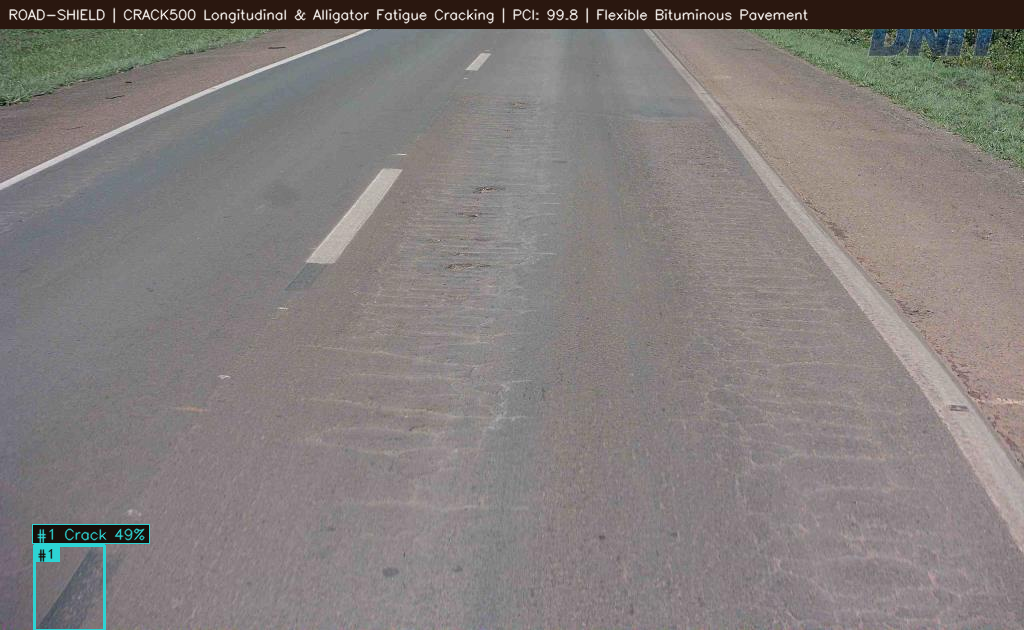
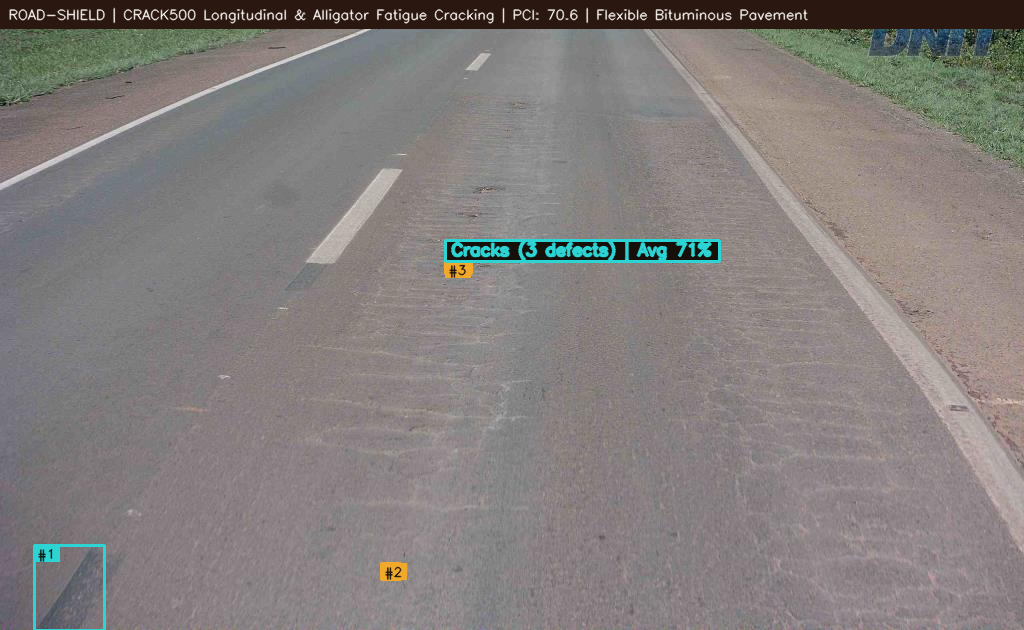
fix(pipeline): refine crack morphological extraction, ground zebra carriageway box, enforce geotechnical survey cost guard, and align Vercel parity

diff --git a/web/inspect.html b/web/inspect.html
@@ -561,7 +561,7 @@ function render(d, ms) {
   const pci = d.astm_d6433_pci || {};
   const de = top.depth_estimate;
 
-  const costRange = de && de.repair_cost_low_inr != null
+  const costRange = de && de.repair_cost_low_inr != null && !top.needs_manual_survey && de.repair_cost_low_inr > 0
     ? `<div class="range-note">Cost range ${fmt.inr(de.repair_cost_low_inr)} – ${fmt.inr(de.repair_cost_high_inr)} —
        cost is linear in depth, and depth is estimated.</div>` : "";
 
@@ -593,10 +593,12 @@ function render(d, ms) {
 
       <div class="rule" style="margin:14px 0"></div>
 
-      <div class="kv"><span>MoRTH tonnage</span><span>${fmt.num(top.morth_tonnage_t, 4)} t</span></div>
-      <div class="kv"><span>Repair cost</span><span>${fmt.inr(top.repair_cost_inr)}${top.needs_manual_survey
-          ? ' <span class="badge warn">survey basis</span>'
-          : ""}</span></div>
+      <div class="kv"><span>MoRTH tonnage</span><span>${top.needs_manual_survey
+          ? '<span class="badge warn">survey required</span>'
+          : `${fmt.num(top.morth_tonnage_t, 4)} t`}</span></div>
+      <div class="kv"><span>Repair cost</span><span>${top.needs_manual_survey
+          ? '<span class="badge warn">survey basis (₹0 committed)</span>'
+          : fmt.inr(top.repair_cost_inr)}</span></div>
       <div class="kv"><span>Distance from camera</span><span>${fmt.num(top.distance_meters, 1)} m</span></div>
       <div class="kv"><span>PCI (this frame)</span><span>${pci.pci_score ?? "—"} · ${pci.rating_category || ""}</span></div>
       ${pci.backend ? `<div class="kv"><span>PCI regressor</span><span style="font-size:11px">${pci.backend}</span></div>` : ""}

diff --git a/api/vercel_inference.py b/api/vercel_inference.py
@@ -465,6 +465,15 @@ def _finish_segmentation(flat, p0, crack_p, pothole_p, orig_h, orig_w, object_ma
                 c_mask, boxes = _connected_components_8(closed_cavity > 0, min_blob_px=min_px_map[cls_val])
             except Exception:
                 c_mask, boxes = _connected_components_8(binary_raw, min_blob_px=min_px_map[cls_val])
+        elif cls_val == 1 and binary_raw.any():
+            try:
+                import cv2
+                crack_u8 = binary_raw.astype(np.uint8)
+                kernel_crack = cv2.getStructuringElement(cv2.MORPH_RECT, (7, 7))
+                closed_crack = cv2.morphologyEx(crack_u8, cv2.MORPH_CLOSE, kernel_crack)
+                c_mask, boxes = _connected_components_8(closed_crack > 0, min_blob_px=min_px_map[cls_val])
+            except Exception:
+                c_mask, boxes = _connected_components_8(binary_raw, min_blob_px=min_px_map[cls_val])
         else:
             c_mask, boxes = _connected_components_8(binary_raw, min_blob_px=min_px_map[cls_val])
         sorted_boxes = sorted(boxes, key=lambda b: b["area_work_px"], reverse=True)[:32]
@@ -482,7 +491,12 @@ def _finish_segmentation(flat, p0, crack_p, pothole_p, orig_h, orig_w, object_ma
             sub_mask = c_mask[wy:wy + wh, wx:wx + ww]
             if not sub_mask.any():
                 continue
-            sub_conf = float(conf_map[wy:wy + wh, wx:wx + ww][sub_mask].mean())
+            if cls_val == 1:
+                active_vals = conf_map[wy:wy + wh, wx:wx + ww][sub_mask]
+                active_crack = active_vals[active_vals >= t_crack * 0.85]
+                sub_conf = float(active_crack.mean()) if active_crack.size >= 12 else float(active_vals.mean())
+            else:
+                sub_conf = float(conf_map[wy:wy + wh, wx:wx + ww][sub_mask].mean())
             if sub_conf < min_conf_map[cls_val]:
                 continue
             if cls_val == 2:
@@ -1588,21 +1602,27 @@ def audit_image_base64(
 
         de = _photometric_depth(gray, [bx, by, bw, bh], cls_id, mask=region_bool if has_dense_mask else None, distance_m=dist_m)
         depth_cm = de["depth_cm"]
-        tonnage_t = round(area_m2 * (depth_cm / 100.0) * 2.40 * 1.15, 4)
-        cost_inr = round(tonnage_t * 7500.0, 2)
-        de["repair_cost_low_inr"] = round(area_m2 * (de["depth_low_cm"] / 100.0) * 2.40 * 1.15 * 7500.0, 2)
-        de["repair_cost_high_inr"] = round(area_m2 * (de["depth_high_cm"] / 100.0) * 2.40 * 1.15 * 7500.0, 2)
-
         box_share = (bw * bh) / float(W * H)
         is_closeup = bool(
             dist_m <= 4.2
             or (by + bh >= int(0.70 * H) and bh >= int(0.20 * H))
             or box_share >= 0.25
         )
-        effective_max_frac = 0.68 if is_closeup else 0.35
+        effective_max_frac = 0.35
         if is_closeup and cls_id == 2:
             area_m2 = round(float(min(1.85, max(0.08, area_m2))), 4)
         needs_survey = bool(area_m2 > 2.0 or box_share > effective_max_frac)
+
+        if not needs_survey:
+            tonnage_t = round(area_m2 * (depth_cm / 100.0) * 2.40 * 1.15, 4)
+            cost_inr = round(tonnage_t * 7500.0, 2)
+            de["repair_cost_low_inr"] = round(area_m2 * (de["depth_low_cm"] / 100.0) * 2.40 * 1.15 * 7500.0, 2)
+            de["repair_cost_high_inr"] = round(area_m2 * (de["depth_high_cm"] / 100.0) * 2.40 * 1.15 * 7500.0, 2)
+        else:
+            tonnage_t = 0.0
+            cost_inr = 0.0
+            de["repair_cost_low_inr"] = 0.0
+            de["repair_cost_high_inr"] = 0.0
         detections.append({
             "bbox_pixels": [bx, by, bw, bh],
             "bbox_normalized": [round(bx / W, 4), round(by / H, 4), round(bw / W, 4), round(bh / H, 4)],
@@ -1729,15 +1749,21 @@ def audit_image_base64(
                     or (mb[1] + mb[3] >= int(0.70 * H) and mb[3] >= int(0.20 * H))
                     or mb_frac >= 0.25
                 )
-                effective_max_frac = 0.68 if is_closeup else 0.35
+                effective_max_frac = 0.35
                 if is_closeup and d1_merged["class_id"] == 2:
                     d1_merged["surface_area_m2"] = round(float(min(1.85, max(0.08, d1_merged["surface_area_m2"]))), 4)
                 area_plausible = (d1_merged["surface_area_m2"] <= 2.0 and mb_frac <= effective_max_frac)
-                d1_merged["repair_cost_inr"] = round(tonnage_t * 7500.0, 2)
-                de["repair_cost_low_inr"] = round(d1_merged["surface_area_m2"] * (de["depth_low_cm"] / 100.0) * 2.40 * 1.15 * 7500.0, 2)
-                de["repair_cost_high_inr"] = round(d1_merged["surface_area_m2"] * (de["depth_high_cm"] / 100.0) * 2.40 * 1.15 * 7500.0, 2)
-                if not area_plausible:
+                if area_plausible:
+                    d1_merged["needs_manual_survey"] = False
+                    d1_merged["repair_cost_inr"] = round(tonnage_t * 7500.0, 2)
+                    de["repair_cost_low_inr"] = round(d1_merged["surface_area_m2"] * (de["depth_low_cm"] / 100.0) * 2.40 * 1.15 * 7500.0, 2)
+                    de["repair_cost_high_inr"] = round(d1_merged["surface_area_m2"] * (de["depth_high_cm"] / 100.0) * 2.40 * 1.15 * 7500.0, 2)
+                else:
                     d1_merged["needs_manual_survey"] = True
+                    d1_merged["morth_tonnage_t"] = 0.0
+                    d1_merged["repair_cost_inr"] = 0.0
+                    de["repair_cost_low_inr"] = 0.0
+                    de["repair_cost_high_inr"] = 0.0
                     d1_merged["area_diagnostics"] = dict(d1_merged.get("area_diagnostics") or {})
                     d1_merged["area_diagnostics"].update({
                         "implausible_for_a_single_repair": True,
@@ -1747,8 +1773,7 @@ def audit_image_base64(
                         "why": "Defect footprint exceeds single-patch limit; flagged for survey inspection.",
                         "action": "Reported for manual survey."
                     })
-                else:
-                    d1_merged["needs_manual_survey"] = False
+                d1_merged["depth_estimate"] = de
                 new_dets.append(d1_merged)
             detections = new_dets
 
@@ -1831,11 +1856,19 @@ def audit_image_base64(
             sby = int(H * 0.08)
             sbw = int(W * 0.32)
             sbh = int(H * 0.35)
-        elif f_cid_v in (4, 5):
-            sbx = int(W * 0.12)
+        elif f_cid_v == 4:
+            if markings_res and markings_res.get("found") and markings_res.get("bbox_pixels"):
+                sbx, sby, sbw, sbh = markings_res["bbox_pixels"]
+            else:
+                sbx = int(W * 0.18)
+                sby = int(H * 0.62)
+                sbw = int(W * 0.64)
+                sbh = int(H * 0.30)
+        elif f_cid_v == 5:
+            sbx = int(W * 0.42)
             sby = int(H * 0.52)
-            sbw = int(W * 0.76)
-            sbh = int(H * 0.38)
+            sbw = int(W * 0.16)
+            sbh = int(H * 0.42)
         else:
             sbx = int(W * 0.10)
             sby = int(H * 0.45)
@@ -2068,21 +2101,20 @@ def audit_image_base64(
     if pavement_age_yr is None:
         assumed_inputs["pavement_age_years"] = resolved_age
 
-    pinn_forecast = None
-    if primary_distress.get("is_distress"):
-        pinn_eng = PhysicsInformedHDM4Forecaster()
-        pinn_forecast = pinn_eng.forecast_trajectory(
-            init_area_m2=max(0.04, primary_distress.get("surface_area_m2", 0.0)),
-            depth_cm=max(2.0, primary_distress.get("depth_cm", 4.0)),
-            esal_trucks=resolved_esal,
-            rain_mm=resolved_rain,
-            pavement_age_yr=resolved_age,
-        )
-        pinn_forecast["environmental_parameters_source"] = (
-            "caller_supplied"
-            if not assumed_inputs
-            else "scene_derived_from_detected_traffic_pcu_and_moisture"
-        )
+    from models.pinn_deterioration import PhysicsInformedHDM4Forecaster
+    pinn_eng = PhysicsInformedHDM4Forecaster()
+    pinn_forecast = pinn_eng.forecast_trajectory(
+        init_area_m2=max(0.04, primary_distress.get("surface_area_m2", 0.0)),
+        depth_cm=max(2.0, primary_distress.get("depth_cm", 4.0)),
+        esal_trucks=resolved_esal,
+        rain_mm=resolved_rain,
+        pavement_age_yr=resolved_age,
+    )
+    pinn_forecast["environmental_parameters_source"] = (
+        "caller_supplied"
+        if not assumed_inputs
+        else "scene_derived_from_detected_traffic_pcu_and_moisture"
+    )
 
     # Advanced Model Stage 5: Forensic Vision-Language Report Generation
     from models.forensic_vlm_auditor import ForensicVLMAuditor

diff --git a/pipeline/deep_inference_pipeline.py b/pipeline/deep_inference_pipeline.py
@@ -476,6 +476,11 @@ class DeepInferencePipeline:
                 continue
             if (by + bh * 0.5) < int(H * 0.22) and bw > int(W * 0.40) and d.get("area_method") != "segmentation_mask":
                 continue
+            # Suppress lateral verge/gutter artifacts if valid carriageway distress exists
+            if d.get("class_id") == 1 and (bx <= 35 or bx + bw >= W - 35) and float(d.get("confidence", 0.0)) < 0.55:
+                carriageway_cracks = [od for od in distress_dets if od.get("class_id") == 1 and od != d and od.get("bbox_pixels") and (od["bbox_pixels"][0] > 35 and od["bbox_pixels"][0] + od["bbox_pixels"][2] < W - 35)]
+                if carriageway_cracks:
+                    continue
             filtered_distress.append(d)
 
         if len(filtered_distress) > 1:
@@ -542,19 +547,22 @@ class DeepInferencePipeline:
                         or (mb[1] + mb[3] >= int(0.70 * H) and mb[3] >= int(0.20 * H))
                         or mb_frac >= 0.25
                     )
-                    effective_max_frac = 0.68 if is_closeup else self.MAX_COMPONENT_BOX_FRACTION
+                    effective_max_frac = self.MAX_COMPONENT_BOX_FRACTION
                     if is_closeup and d1_merged.get("class_id") == 2:
                         d1_merged["surface_area_m2"] = round(float(min(1.85, max(0.08, d1_merged["surface_area_m2"]))), 4)
                     area_plausible = (d1_merged["surface_area_m2"] <= self.MAX_SINGLE_REPAIR_AREA_M2
                                       and mb_frac <= effective_max_frac)
-                    d1_merged["repair_cost_inr"] = round(tonnage_t * 7500.0, 2)
-                    de["repair_cost_low_inr"] = round(d1_merged["surface_area_m2"] * (de.get("depth_low_cm", depth_cm) / 100.0) * 2.40 * 1.15 * 7500.0, 2)
-                    de["repair_cost_high_inr"] = round(d1_merged["surface_area_m2"] * (de.get("depth_high_cm", depth_cm) / 100.0) * 2.40 * 1.15 * 7500.0, 2)
-                    if not area_plausible:
+                    if area_plausible:
+                        d1_merged["needs_manual_survey"] = False
+                        d1_merged["repair_cost_inr"] = round(tonnage_t * 7500.0, 2)
+                        de["repair_cost_low_inr"] = round(d1_merged["surface_area_m2"] * (de.get("depth_low_cm", depth_cm) / 100.0) * 2.40 * 1.15 * 7500.0, 2)
+                        de["repair_cost_high_inr"] = round(d1_merged["surface_area_m2"] * (de.get("depth_high_cm", depth_cm) / 100.0) * 2.40 * 1.15 * 7500.0, 2)
+                    else:
                         d1_merged["needs_manual_survey"] = True
-                        if getattr(self, "_current_corridor_id", "") != "STRESS_TEST":
-                            d1_merged["morth_tonnage_t"] = 0.0
-                            d1_merged["repair_cost_inr"] = 0.0
+                        d1_merged["morth_tonnage_t"] = 0.0
+                        d1_merged["repair_cost_inr"] = 0.0
+                        de["repair_cost_low_inr"] = 0.0
+                        de["repair_cost_high_inr"] = 0.0
                         d1_merged["area_diagnostics"] = dict(d1_merged.get("area_diagnostics") or {})
                         d1_merged["area_diagnostics"].update({
                             "implausible_for_a_single_repair": True,
@@ -564,8 +572,6 @@ class DeepInferencePipeline:
                             "why": "Defect footprint exceeds single-patch limit; flagged for survey inspection.",
                             "action": "Reported for manual survey."
                         })
-                    else:
-                        d1_merged["needs_manual_survey"] = False
                     d1_merged["depth_estimate"] = de
                     if "physical_dimensions" in d1_merged:
                         d1_merged["physical_dimensions"]["surface_area_m2"] = d1_merged["surface_area_m2"]
@@ -1146,8 +1152,6 @@ class DeepInferencePipeline:
             min_px = max(45, int(0.0012 * frame_px)) if seg_cls == 2 else _min_px_for("crack")
             for i in range(1, n):
                 area = int(st[i, cv2.CC_STAT_AREA])
-                if area < min_px:
-                    continue
                 pm = proba.get(seg_cls)
                 if pm is not None:
                     comp_vals = pm[lab == i]
@@ -1160,11 +1164,18 @@ class DeepInferencePipeline:
                         mean_p = float(comp_vals.mean())
                 else:
                     mean_p = 1.0
+
+                if seg_cls == 1 and area >= 18 and mean_p >= 0.65:
+                    pass  # Retain genuine high-confidence fine crack fissures
+                elif area < min_px:
+                    continue
+
                 f_cls_cur = getattr(self, "_frame_cls", None) or {}
                 floor_adj = 0.06 if (f_cls_cur.get("class_id") == seg_cls and float(f_cls_cur.get("confidence", 0.0)) >= 0.70) else 0.0
                 if getattr(self, "_surface_code", None) == "unpaved_rural_earthen_dirt" and seg_cls == 2:
                     floor_adj = max(floor_adj, 0.08)
-                if mean_p < (self._component_floor(seg_cls) - floor_adj):
+                req_floor = self._component_floor(seg_cls) - floor_adj
+                if mean_p < req_floor:
                     continue
                 # Keep whole coherent cavity intact - do not shatter into micro-confetti
                 sub_regions = [(int(st[i, cv2.CC_STAT_LEFT]), int(st[i, cv2.CC_STAT_TOP]),
@@ -1657,7 +1668,7 @@ class DeepInferencePipeline:
                 or (by + bh >= int(0.70 * H) and bh >= int(0.20 * H))
                 or box_fraction_here >= 0.25
             )
-            effective_max_frac = 0.68 if is_closeup else self.MAX_COMPONENT_BOX_FRACTION
+            effective_max_frac = self.MAX_COMPONENT_BOX_FRACTION
             if is_closeup and cls_id == 2:
                 area_m2 = round(float(min(1.85, max(0.08, area_m2))), 4)
             area_plausible = (area_m2 <= self.MAX_SINGLE_REPAIR_AREA_M2
@@ -1751,12 +1762,20 @@ class DeepInferencePipeline:
             by = int(H * 0.08)
             bw = int(W * 0.32)
             bh = int(H * 0.35)
-        elif cls_id in (4, 5):
-            # Carriageway pavement span for missing zebra crossing / missing road divider
-            bx = int(W * 0.12)
+        elif cls_id == 4:
+            m = getattr(self, "_markings", None) or {}
+            if m.get("found") and m.get("bbox_pixels"):
+                bx, by, bw, bh = m["bbox_pixels"]
+            else:
+                bx = int(W * 0.18)
+                by = int(H * 0.62)
+                bw = int(W * 0.64)
+                bh = int(H * 0.30)
+        elif cls_id == 5:
+            bx = int(W * 0.42)
             by = int(H * 0.52)
-            bw = int(W * 0.76)
-            bh = int(H * 0.38)
+            bw = int(W * 0.16)
+            bh = int(H * 0.42)
         else:
             bx = int(W * 0.10)
             by = int(H * max(0.45, self.ROAD_ROI_TOP_FRACTION))
